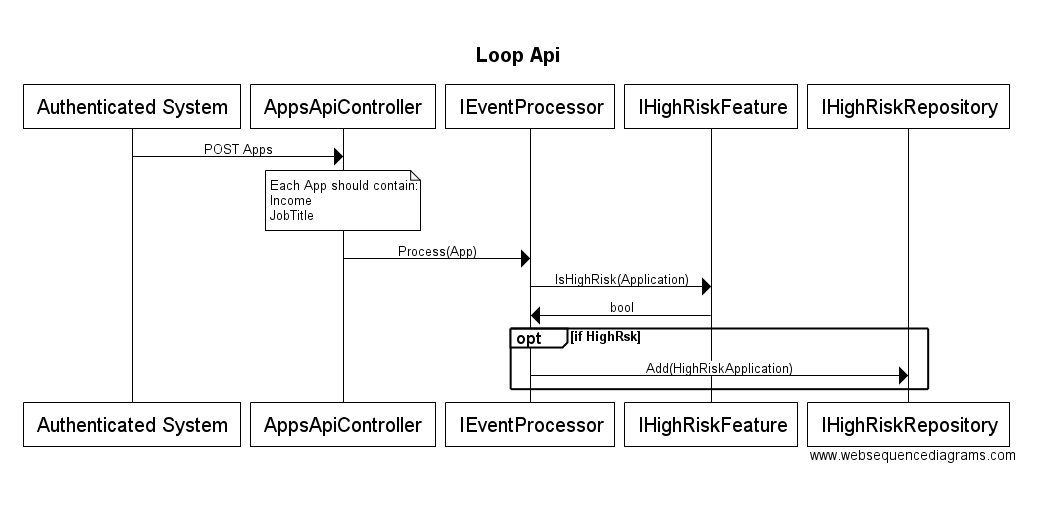
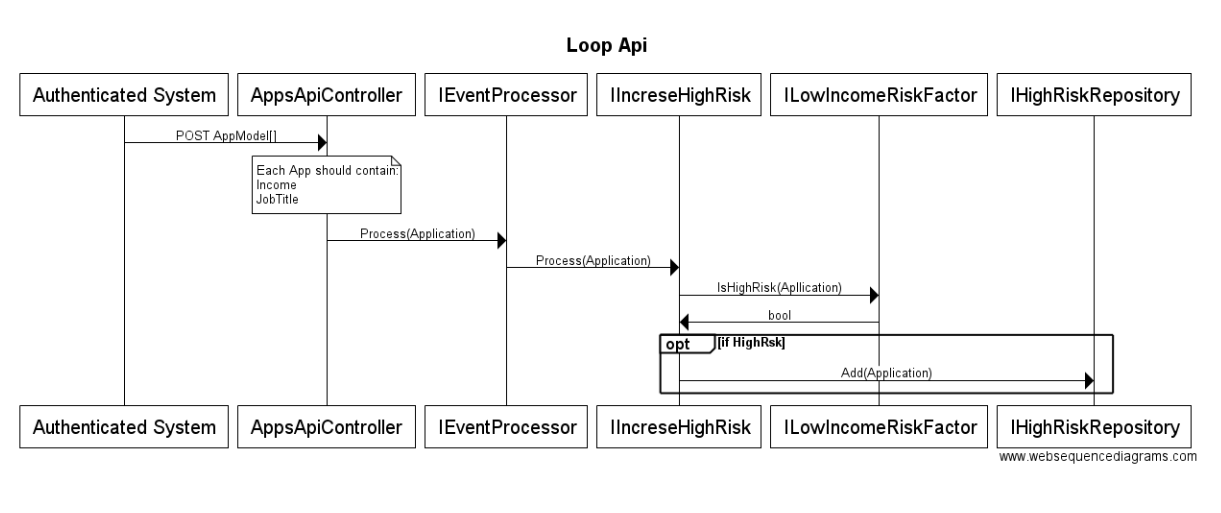
added readme updates

Changed region(s): [[0.0, 0.0592, 0.9743, 0.9172]]

diff --git a/Aire.LoopService.Core/EventProcessor.cs b/Aire.LoopService.Core/EventProcessor.cs
@@ -1,22 +1,22 @@
 using System.Threading.Tasks;
 using Aire.LoopService.Domain;
+using Aire.LoopService.EventProcessors;
 using Aire.LoopService.Events.IncreaseHighRisk;
 
 namespace Aire.LoopService
 {
     public class EventProcessor : IEventProcessor
     {
-        private readonly ILowIncomeRiskFactor _lowIncomeRiskFactor;
+        private readonly IIncreaseHighRisk _increaseHighRisk;
 
-        public EventProcessor(ILowIncomeRiskFactor lowIncomeRiskFactor)
+        public EventProcessor(IIncreaseHighRisk increaseHighRisk)
         {
-            _lowIncomeRiskFactor = lowIncomeRiskFactor;
+            _increaseHighRisk = increaseHighRisk;
         }
 
-        public Task Process(Application application)
+        public async Task Process(Application application)
         {
-            var isHighRisk = _lowIncomeRiskFactor.IsHighRisk(application);
-            throw new System.NotImplementedException();
+            await _increaseHighRisk.Process(application);
         }
     }
 }

diff --git a/README.md b/README.md
@@ -1,2 +1,42 @@
 # loop-service
 Aire Loop Service homework
+
+Issues
+- Within the given time period I spent a lot of time setting up the initial project, then dependency injection and mapping
+
+Improvements
+
+- Pass all the applications and select from them which are considered High Risk, then add that collection to the HighRisk collection. Rather than one app at a time.
+- Build out the Events api to retrieve the number of high risk applications within a given time period and compare to the threshold for the given time period and then return a Increase High Risk Event if over
+
+Assumptions
+
+I made the following assumptions during the task:
+
+- That the api would already have an authentication system in place
+- That there would be a data store for the HighRisk applications, or a way to mark an application as High Risk 
+- That LowIncome could be a simple check on the reported income field, where in actual fact it would probably be a more complex calculation based on multiple fields on the application, and may involve and looking up futher data to compare to.
+
+Dev process
+
+- First stage- create an empty api with the two end points for posting apps and getting events
+- Second stage - set up dependency injection, mapping for mapping of the models (which separate front end models to domain model), and unit tests
+- Third stage - implement logic and storage of HighRiskApplications, return events based on numbers of HighRiskApplications
+ 
+Designing the service
+  - EventProcessor - this would take a dependency on IncreaseHighRisk event processor 
+  - EventProcessor would use IncreaseHighRisk and process the application.
+  - IncreaseHighRisk event processor would have a dependency on LowIncomeRiskFactor
+  - IncreaseHighRisk would call LowIncomeRiskFactor.IsHighRisk. It would then use the result to determine whether or not an application should be added to the list of HighRiskApplications
+  - LowIncomeRiskFactor, calculate whether the application is high risk based on its logic
+  - Logic for LowIncomeRiskFactor, if application Income is below configurable threshold then it is considered LowIncome and therefore return true for IsHighRisk.
+
+
+The reason for this design is so that each part is repsonsible for a single thing, this ensures that it easier to unit test and it makes it re-usable (other parts may need to know if an application is LowIncome for a difference Event)
+Responsibilities
+AppsController - responsible for passing the mapped application to the EventProcessor
+EventProcessor - responsible for calling the events processors (currently only IncreaseHighRisk implemented, but could add in more)
+IncreaseHighRisk - responsible for calling the all risk factors that are required to determine if an application is HighRisk (currently only LowIncomeRiskFactor implemented, but could add in more, i.e. JobTitle)
+LowIncomeRiskFactor - responsible for determining whether or not an application is considered low income.
+
+![alt text](https://github.com/spriggatig/loop-service/raw/master/sequennceone.PNG "sequence diagram")
